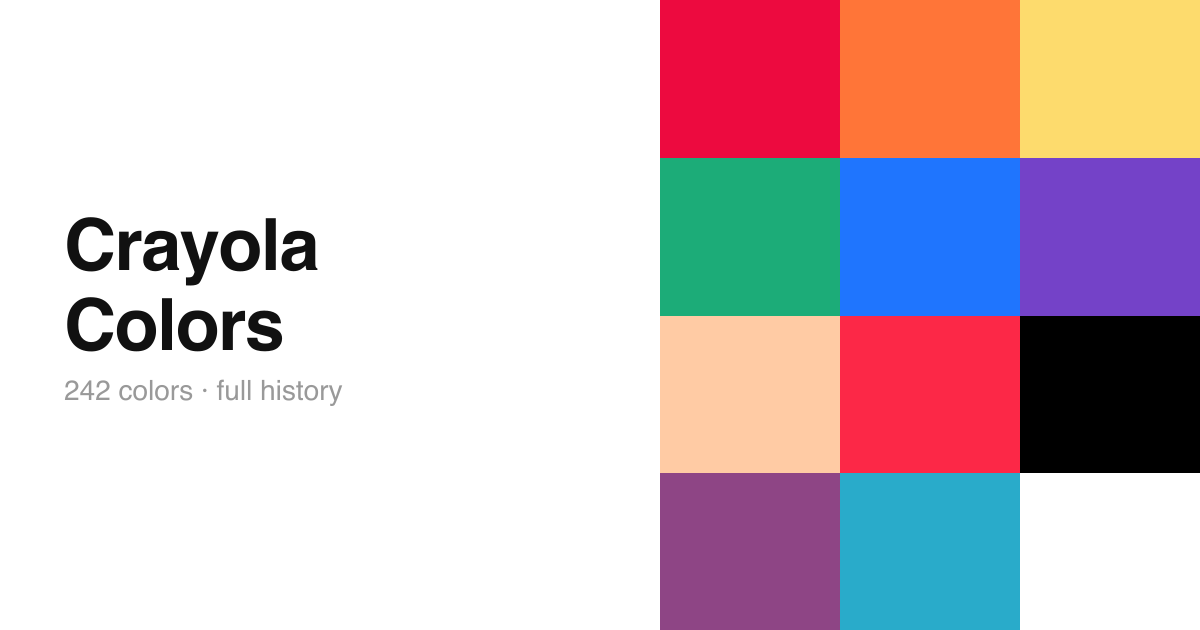
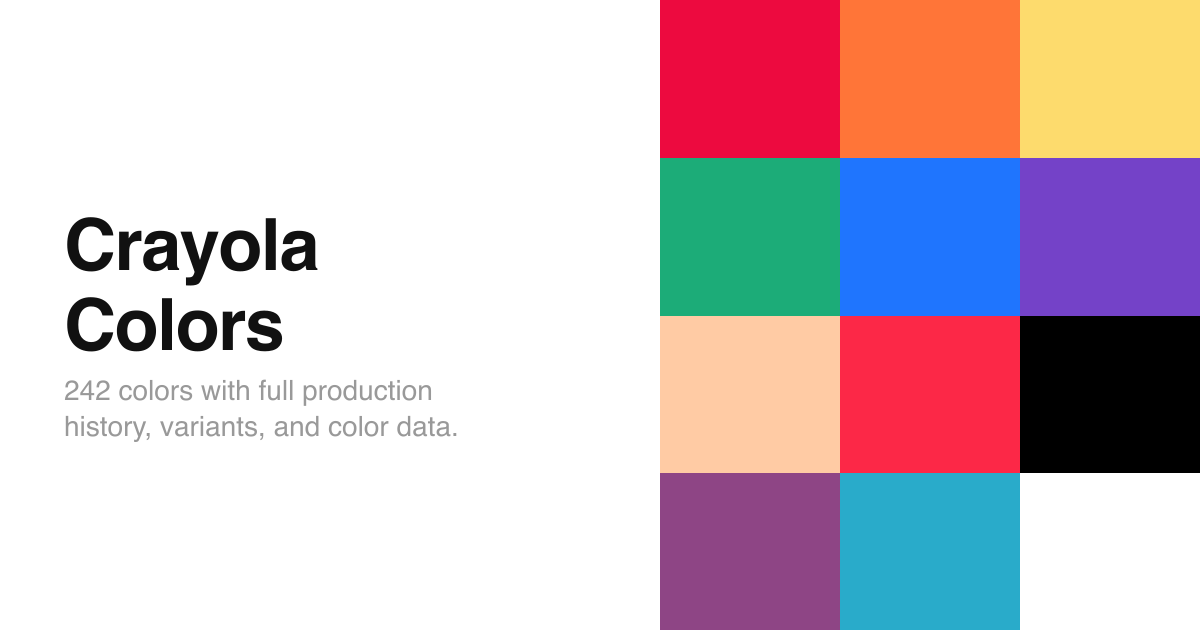
fix: update OG image subtitle to full description

Changed region(s): [[0.0617, 0.6635, 0.4008, 0.6937], [0.1542, 0.6032, 0.37, 0.6333]]

diff --git a/scripts/generate-og-fallback.js b/scripts/generate-og-fallback.js
@@ -13,7 +13,8 @@ const svg = `<svg xmlns="http://www.w3.org/2000/svg" width="1200" height="630">
   <text x="64" y="270" font-family="-apple-system, BlinkMacSystemFont, sans-serif" font-size="72" font-weight="800" fill="#111111" letter-spacing="-1.44">Crayola</text>
   <text x="64" y="350" font-family="-apple-system, BlinkMacSystemFont, sans-serif" font-size="72" font-weight="800" fill="#111111" letter-spacing="-1.44">Colors</text>
   <!-- Subtitle -->
-  <text x="64" y="400" font-family="-apple-system, BlinkMacSystemFont, sans-serif" font-size="28" fill="#999999">242 colors · full history</text>
+  <text x="64" y="400" font-family="-apple-system, BlinkMacSystemFont, sans-serif" font-size="28" fill="#999999">242 colors with full production</text>
+  <text x="64" y="436" font-family="-apple-system, BlinkMacSystemFont, sans-serif" font-size="28" fill="#999999">history, variants, and color data.</text>
   <!-- Right panel: 3x4 color grid (each cell = 180x157.5) -->
   <rect x="660" y="0"   width="180" height="158" fill="#ED0A3F"/>
   <rect x="840" y="0"   width="180" height="158" fill="#FF7538"/>

diff --git a/scripts/generate-og.html b/scripts/generate-og.html
@@ -49,7 +49,7 @@
 <body>
   <div class="left">
     <div class="title">Crayola<br>Colors</div>
-    <div class="subtitle">242 colors · full history</div>
+    <div class="subtitle">242 colors with full production<br>history, variants, and color data.</div>
   </div>
   <div class="right">
     <div class="swatch" style="background:#ED0A3F"></div>
